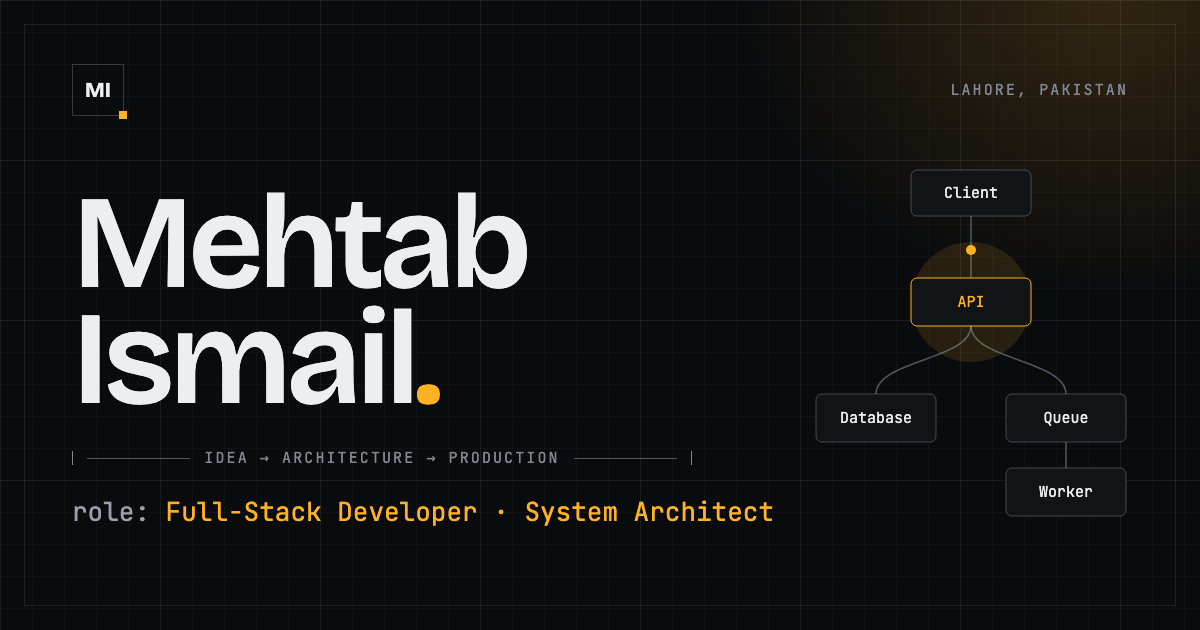
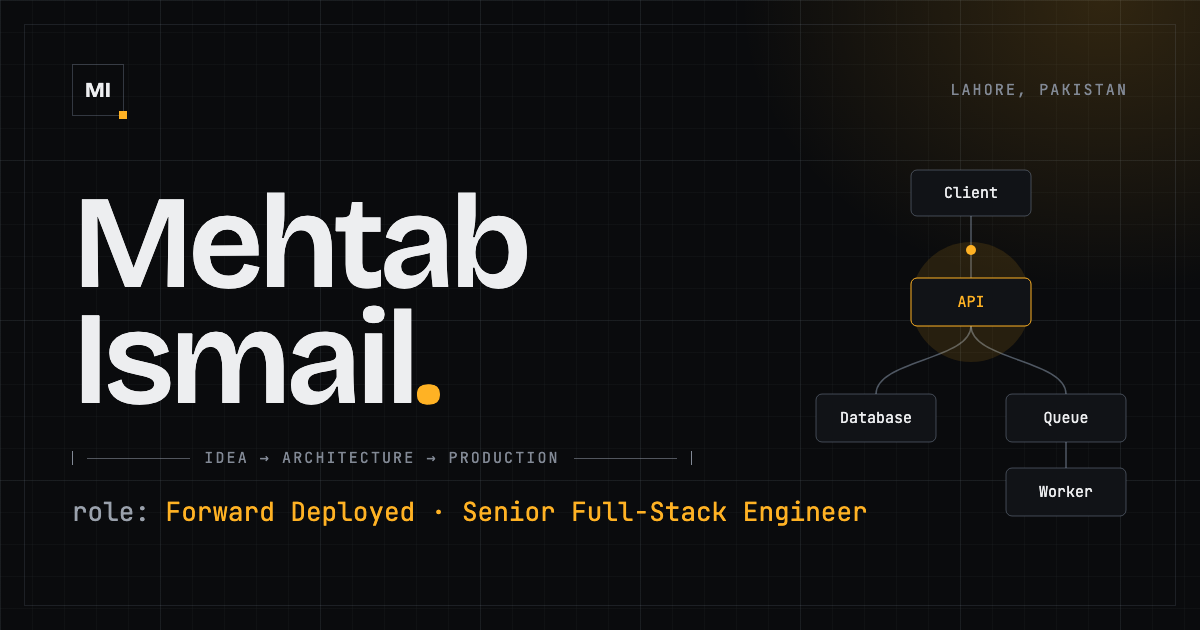
Reposition the site copy around forward deployed engineering
Hero roles and statement, the What I do intro, SEO title/description/
jobTitle, the share image and the web manifest now describe a senior
full-stack engineer who works forward deployed: 30+ mobile, web,
backend and AI products since 2019.

Changed region(s): [[0.1542, 0.7841, 0.7092, 0.8444]]

diff --git a/src/content/site.ts b/src/content/site.ts
@@ -35,12 +35,12 @@ export const site = {
  * sitemap.xml and robots.txt).
  */
 export const seo = {
-  jobTitle: 'Freelance Full-Stack Developer & System Architect',
+  jobTitle: 'Senior Full-Stack Engineer · Forward Deployed',
   pages: {
     '/': {
-      title: 'Mehtab Ismail — Full-Stack Developer & System Architect',
+      title: 'Mehtab Ismail — Forward Deployed & Senior Full-Stack Engineer',
       description:
-        'Freelance full-stack developer who also handles system architecture and technical documentation — taking products from idea to shipped code.',
+        'Forward deployed full-stack engineer: 30+ mobile, web, backend and AI products shipped since 2019, from client discovery and architecture to production.',
     },
     '/work/': {
       title: 'All work — Mehtab Ismail',
@@ -50,7 +50,7 @@ export const seo = {
   },
   /** 1200×630 share image in /public */
   ogImage: '/og.png',
-  ogImageAlt: 'Mehtab Ismail — Full-Stack Developer & System Architect',
+  ogImageAlt: 'Mehtab Ismail — Forward Deployed & Senior Full-Stack Engineer',
   /** the 404 page; kept out of search results and the sitemap */
   notFound: {
     title: 'Page not found — Mehtab Ismail',
@@ -80,9 +80,9 @@ export const socials: SocialLink[] = [
 
 export const hero = {
   greeting: "Hi, I'm",
-  roles: ['Full-Stack Developer', 'React Native Developer', 'System Architect', 'Technical Writer'],
+  roles: ['Forward Deployed Engineer', 'Senior Full-Stack Engineer', 'System Architect', 'AI Integration Engineer'],
   statement:
-    'I turn product ideas into documented, scalable platforms — from architecture to production.',
+    'I work inside your business, find the real problem, and ship the system that solves it — from architecture to production.',
   secondaryCta: { label: 'See my work', target: 'work' },
 }
 
@@ -123,7 +123,7 @@ export interface Service {
 export const about = {
   heading: 'What I do',
   intro:
-    "I'm a freelance full-stack developer with 30+ mobile apps shipped since 2019. On client projects I also own the system architecture and the technical documentation — so one person carries the product from idea to shipped code.",
+    "I work the way a forward deployed engineer does: directly with clients, close to the problem and accountable for production. Since 2019 I've shipped 30+ products — React Native apps, Next.js platforms, NestJS and Node.js APIs, and AI features built on OpenAI and RAG — owning discovery, system architecture, third-party integrations, technical documentation and the handoff to the client's team.",
 }
 
 export const services: Service[] = [

diff --git a/scripts/og/og.html b/scripts/og/og.html
@@ -149,7 +149,7 @@
       </div>
       <h1>Mehtab<br />Ismail<span>.</span></h1>
       <div class="dim mono"><b></b><i></i>idea → architecture → production<i></i><b></b></div>
-      <p class="role">role: <em>Full-Stack Developer · System Architect</em></p>
+      <p class="role">role: <em>Forward Deployed · Senior Full-Stack Engineer</em></p>
 
       <svg width="330" height="380" viewBox="0 0 330 380" fill="none">
         <g stroke="rgb(148 163 184 / 0.5)" stroke-width="1.5">

diff --git a/README.md b/README.md
@@ -1,6 +1,6 @@
 # Mehtab Ismail — portfolio
 
-Personal site for Mehtab Ismail, freelance full-stack developer and system architect. Two pages: the one-pager (`/`) and the full project index (`/work/`).
+Personal site for Mehtab Ismail, senior full-stack engineer working forward deployed with clients. Two pages: the one-pager (`/`) and the full project index (`/work/`).
 
 Built with React 19, Vite, TypeScript, Tailwind CSS v4, Motion (Framer Motion), Lenis and matter.js. Both pages are prerendered to static HTML at build time and deployed to Vercel.
 
